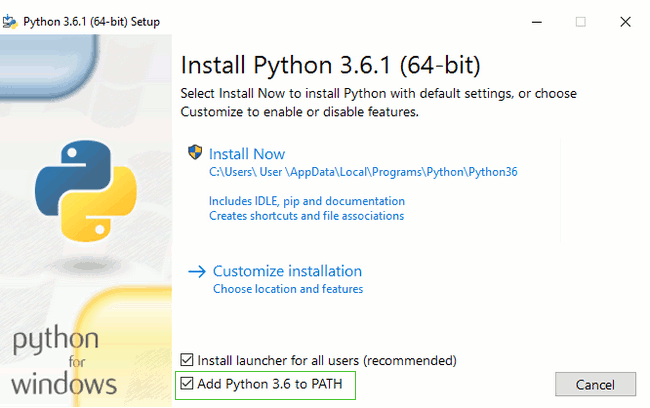
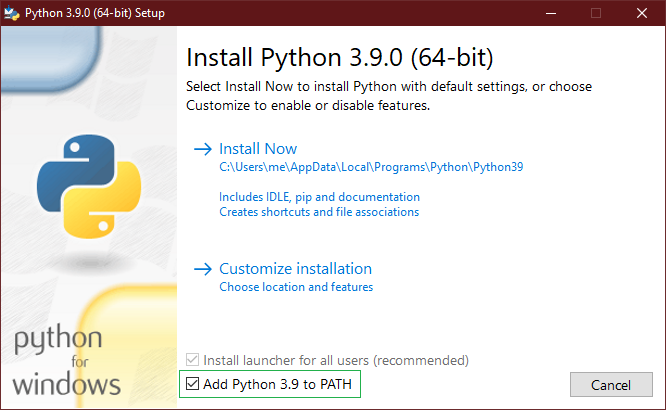
Updated to Python 3.9.0

diff --git a/en/python_installation/instructions.md b/en/python_installation/instructions.md
@@ -16,13 +16,13 @@ First check whether your computer is running a 32-bit version or a 64-bit versio
 
 You can download Python for Windows from the website https://www.python.org/downloads/windows/. Click on the "Latest Python 3 Release - Python x.x.x" link. If your computer is running a **64-bit** version of Windows, download the **Windows x86-64 executable installer**. Otherwise, download the **Windows x86 executable installer**. After downloading the installer, you should run it (double-click on it) and follow the instructions there.
 
-One thing to watch out for: During the installation, you will notice a window marked "Setup". Make sure you tick the "Add Python 3.6 to PATH" or 'Add Python to your environment variables" checkbox and click on "Install Now", as shown here (it may look a bit different if you are installing a different version):
+One thing to watch out for: During the installation, you will notice a window marked "Setup". Make sure you tick the "Add Python 3.9 to PATH" or 'Add Python to your environment variables" checkbox and click on "Install Now", as shown here (it may look a bit different if you are installing a different version):
 
 ![Don't forget to add Python to the Path](../python_installation/images/python-installation-options.png)
 
 When the installation completes, you may see a dialog box with a link you can follow to learn more about Python or about the version you installed. Close or cancel that dialog -- you'll be learning more in this tutorial!
 
-Note: if you are using an older version of Windows (7, Vista, or any older version) and the Python 3.6.x installer fails with an error, you can try either:
+Note: if you are using an older version of Windows (7, Vista, or any older version) and the Python 3.9.x installer fails with an error, you can try either:
 1. install all Windows Updates and try to install Python again; or
 2. install an [older version of Python](https://www.python.org/downloads/windows/), e.g., [3.4.6](https://www.python.org/downloads/release/python-346/).
 
@@ -37,10 +37,10 @@ data-collapse=true ces-->
 
 > **Note** Before you install Python on OS X, you should ensure your Mac settings allow installing packages that aren't from the App Store. Go to System Preferences (it's in the Applications folder), click "Security & Privacy," and then the "General" tab. If your "Allow apps downloaded from:" is set to "Mac App Store," change it to "Mac App Store and identified developers."
 
-You need to go to the website https://www.python.org/downloads/release/python-361/ and download the Python installer:
+You need to go to the website https://www.python.org/downloads/release/python-390/ and download the Python installer:
 
-* Download the *Mac OS X 64-bit/32-bit installer* file,
-* Double click *python-3.6.1-macosx10.6.pkg* to run the installer.
+* Download the *macOS 64-bit installer* file,
+* Double click *python-3.9.0-macosx10.9.pkg* to run the installer.
 
 <!--endsec-->
 
@@ -52,10 +52,10 @@ It is very likely that you already have Python installed out of the box. To chec
 {% filename %}command-line{% endfilename %}
 ```
 $ python3 --version
-Python 3.6.1
+Python 3.9.0
 ```
 
-If you have a different version of Python installed, at least 3.4.0 (e.g. 3.6.0), then you don't have to upgrade. If you don't have Python installed, or if you want a different version, first check what Linux distribution you are using with the following command:
+If you have a different version of Python installed, at least 3.4.0 (e.g. 3.9.0), then you don't have to upgrade. If you don't have Python installed, or if you want a different version, first check what Linux distribution you are using with the following command:
 
 {% filename %}command-line{% endfilename %}
 ```
@@ -108,9 +108,9 @@ Verify the installation was successful by opening a command prompt and running t
 {% filename %}command-line{% endfilename %}
 ```
 $ python3 --version
-Python 3.6.1
+Python 3.9.0
 ```
-The version shown may be different from 3.6.1 -- it should match the version you installed.
+The version shown may be different from 3.9.0 -- it should match the version you installed.
 
 **NOTE:** If you're on Windows and you get an error message that `python3` wasn't found, try using `python` (without the `3`) and check if it still might be a version of Python that is 3.4.0 or higher. If that doesn't work either, you may open a new command prompt and try again; this happens if you use a command prompt left open from before the Python installation. 
 
